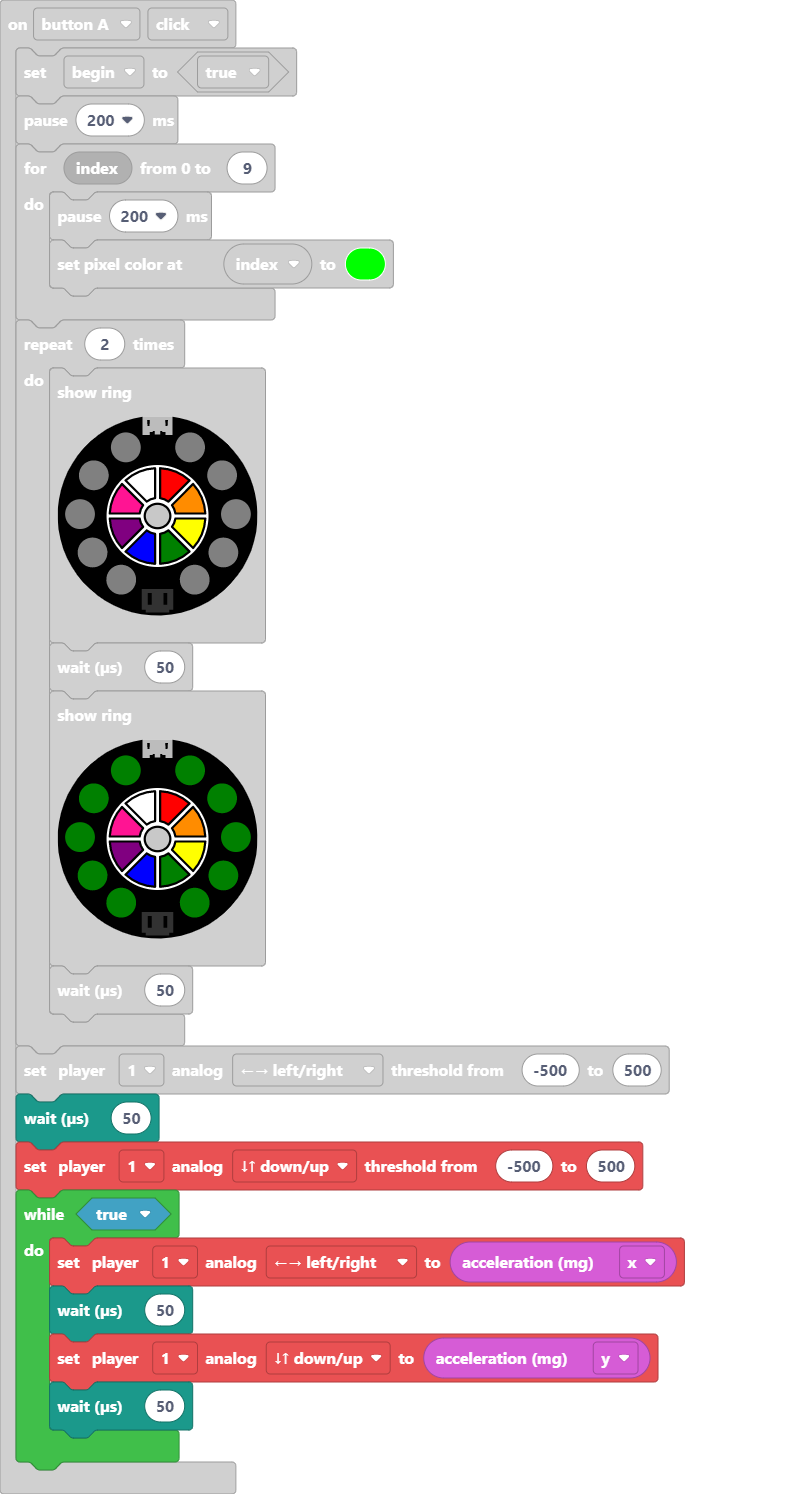
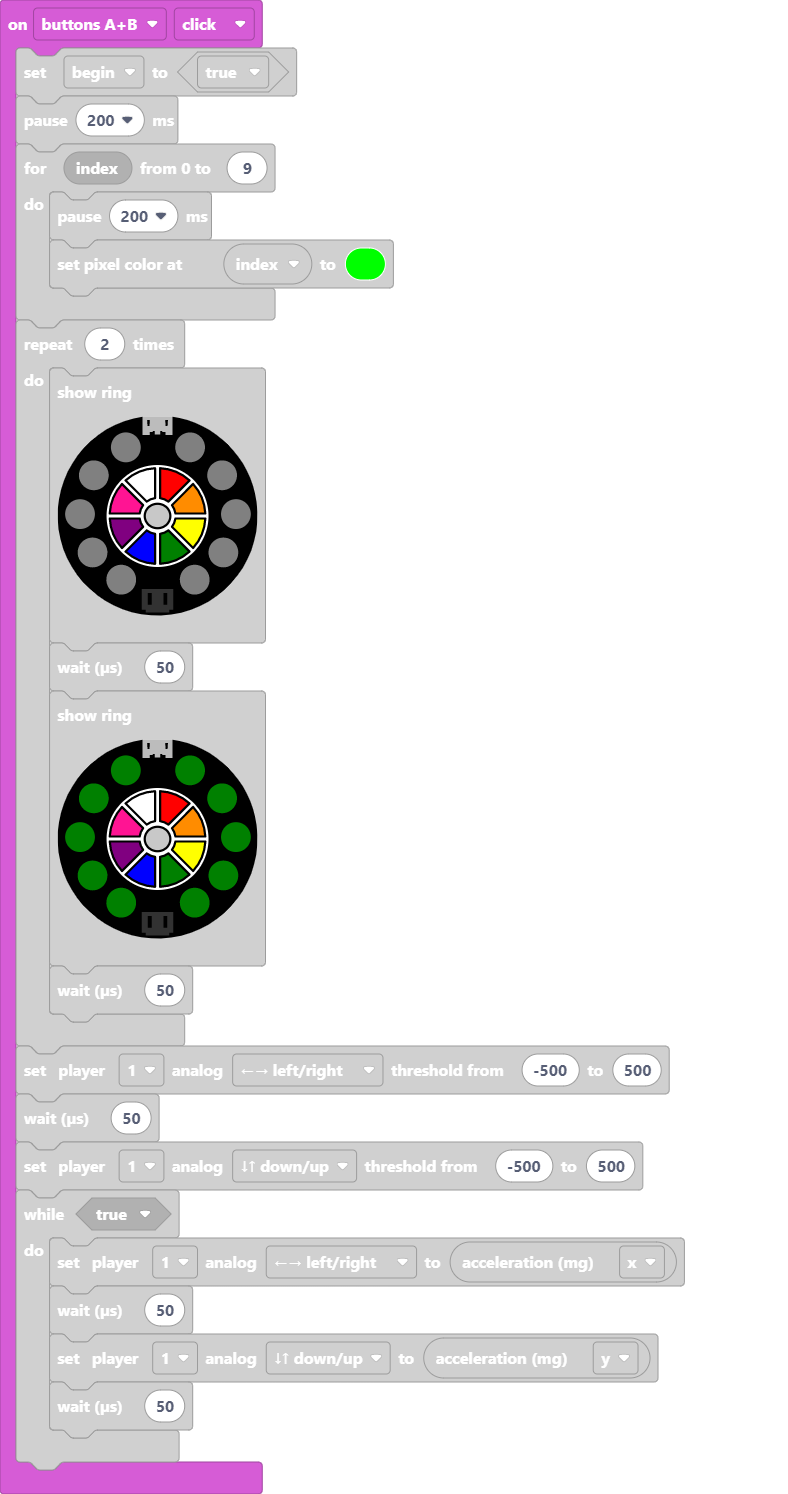
Update main.blocks, main.ts

Changed region(s): [[0.0, 0.0, 0.8832, 1.0]]

diff --git a/main.ts b/main.ts
@@ -1,4 +1,4 @@
-input.buttonA.onEvent(ButtonEvent.Click, function () {
+input.buttonsAB.onEvent(ButtonEvent.Click, function () {
     begin = true
     pause(200)
     for (let index = 0; index <= 9; index++) {
